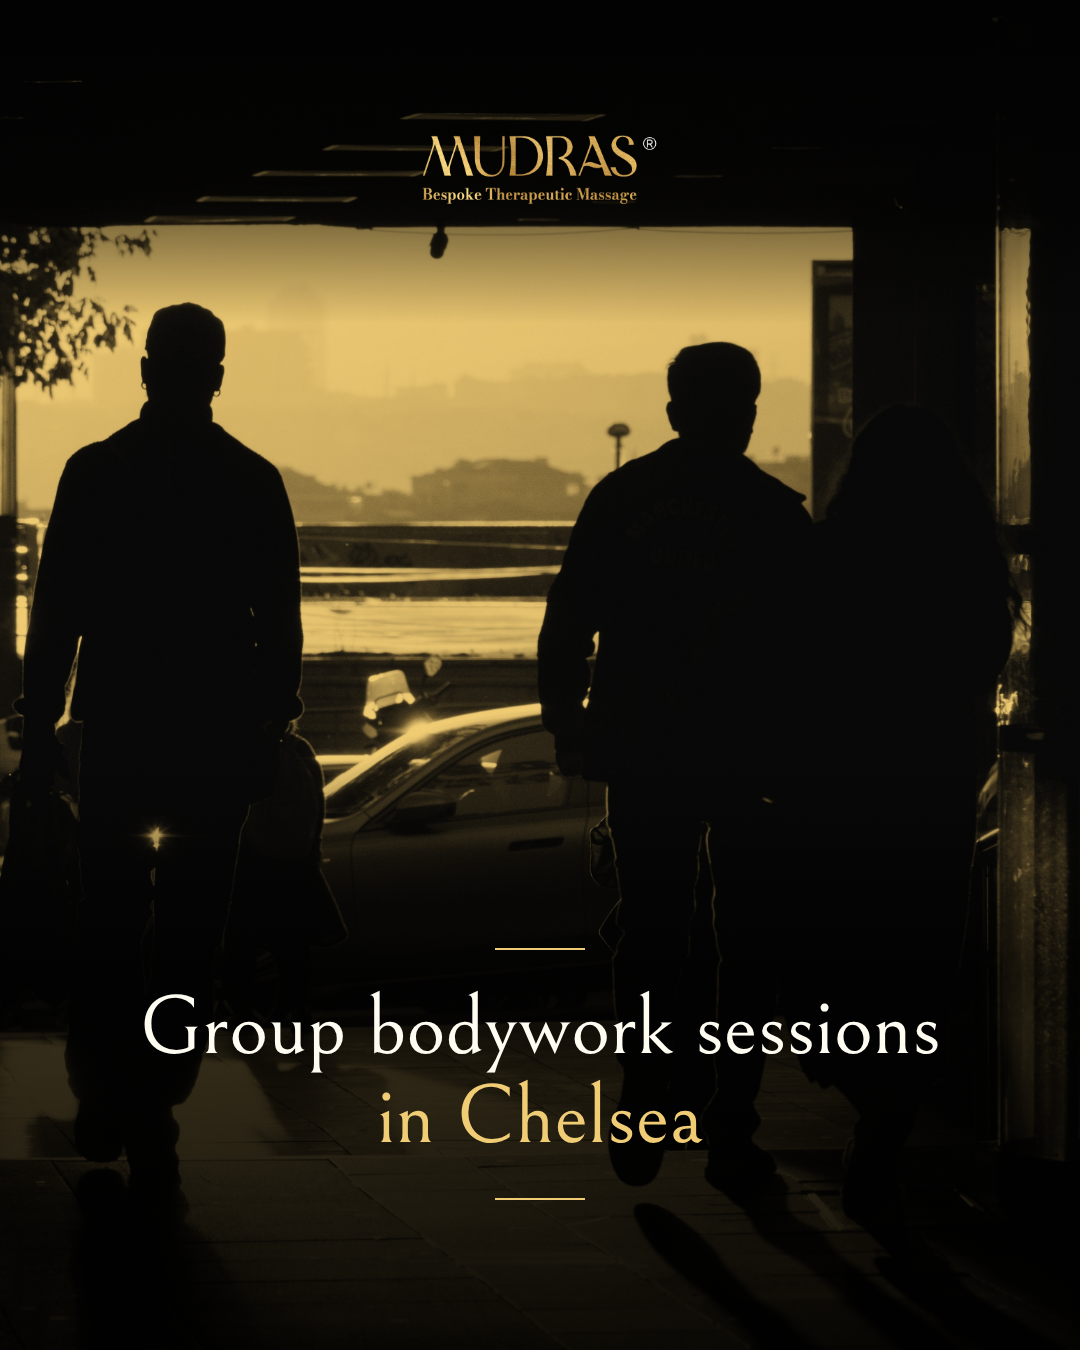
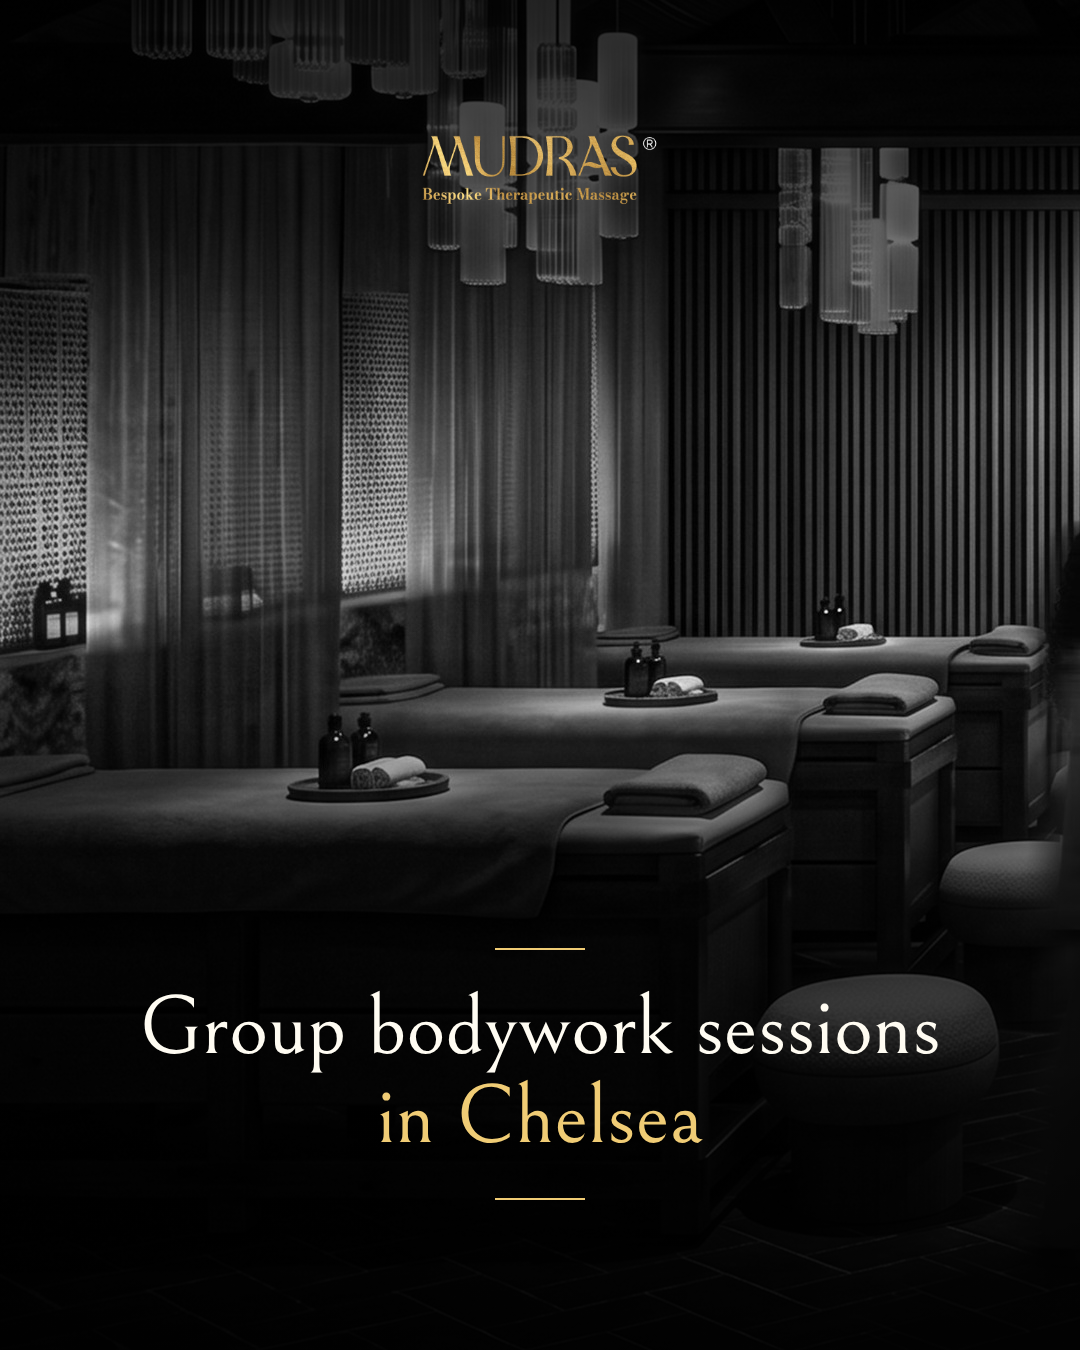
Mudras: new group bodywork image (studio with several tables, B&W) and updated notes
Claude-Session: https://claude.ai/code/session_01WnXcuRrGu4zGnnykNFmZUS

diff --git a/deliverables/mudras/source/design/v2/r2-group-bodywork.html b/deliverables/mudras/source/design/v2/r2-group-bodywork.html
@@ -1,0 +1,36 @@
+<!doctype html>
+<html><head><meta charset="utf-8">
+<link href="https://fonts.googleapis.com/css2?family=Bellefair&family=Raleway:wght@500;600&display=block" rel="stylesheet">
+<style>
+/* Mudras brand tokens, taken from mudras.com theme CSS. Black/gold/white. The photo is toned as a black-to-gold
+   duotone (brand gold #F0CC75 highlights): a studio room with several massage tables ready for a team visit (black and white). Centred logo at the top
+   over the dark ceiling, centred serif copy between two short gold rules at the bottom. */
+:root{
+  --gold:#F0CC75;        /* accent  hsl(42.44 80.39% 70%) */
+  --white:#FFFCF2;       /* white   hsl(46.15 100% 97.45%) */
+  --serif:'Bellefair', serif;     /* stand-in for orpheus-pro (Adobe Fonts) */
+}
+*{box-sizing:border-box;margin:0;padding:0}
+body{background:#888;display:flex;flex-direction:column;gap:40px;padding:40px;align-items:flex-start}
+body.notext .t{visibility:hidden}
+.ab{position:relative;overflow:hidden;background:#000;color:var(--white)}
+.p45{width:1080px;height:1350px}
+.photo{position:absolute;inset:0;background:url(../../img/grp_spa_room_bw.jpg) 50% 50%/cover no-repeat}
+.shade{position:absolute;inset:0;background:linear-gradient(180deg,rgba(0,0,0,.85) 0%,rgba(0,0,0,.6) 16%,rgba(0,0,0,.1) 30%,rgba(0,0,0,0) 50%,rgba(0,0,0,.7) 68%,rgba(0,0,0,.93) 100%)}
+.serif{font-family:var(--serif);font-weight:400;line-height:1.06}
+.logo img{width:100%;display:block}
+.rule{width:90px;height:2px;background:var(--gold);margin:0 auto}
+</style></head><body>
+
+<div class="ab p45" id="fb_group_bodywork">
+  <div class="photo"></div>
+  <div class="shade"></div>
+  <div class="logo t" style="position:absolute;left:50%;transform:translateX(-50%);top:135px;width:240px"><img src="../../site/orig_Group_1487669750.png"></div>
+  <div style="position:absolute;left:108px;right:108px;bottom:150px;text-align:center">
+    <div class="rule" style="margin-bottom:34px"></div>
+    <div class="serif t" style="font-size:84px;white-space:nowrap">Group bodywork sessions<br><span style="color:var(--gold)">in Chelsea</span></div>
+    <div class="rule" style="margin-top:36px"></div>
+  </div>
+</div>
+
+</body></html>

diff --git a/deliverables/mudras/group-bodywork-chelsea/caption-and-image-link.md b/deliverables/mudras/group-bodywork-chelsea/caption-and-image-link.md
@@ -4,13 +4,13 @@ One design works for both platforms:
 - `instagram/instagram-feed-1080x1350.png`
 - `facebook/facebook-feed-1080x1350.png`
 
-Creative idea: a small team (silhouettes, no faces) walking out together into golden evening light, like heading to the studio after work.
-
-The photo is toned as a black-to-gold duotone using the brand gold `#F0CC75`. That is a new look for the feed, but it stays inside the black, gold and white palette.
+**v2 (replaces the rejected duotone walking-silhouettes image).** The new photo shows a calm, dark studio room with several massage tables set up side by side, so "group session" reads at a glance. It is converted to black and white to match the brand photo style. There are no faces and no equipment.
 
 The layout:
-- gold logo centred at the top, over the dark ceiling
+- gold logo centred at the top
 - centred serif copy between two short gold rules at the bottom
+
+QA: 1080×1350, text inside the safe zone, one font (Bellefair), at most 3 words per line, contrast 14.2, text area 10.6%.
 
 ## Image text
 Group bodywork sessions in Chelsea
@@ -18,15 +18,15 @@ Group bodywork sessions in Chelsea
 ## Image used
 | Image | Source | Link |
 |---|---|---|
-| Three people in silhouette walking out of a covered walkway toward golden light (no faces) | Unsplash (free under the Unsplash License, commercial use allowed) | https://unsplash.com/photos/cXdExFX-CJQ |
+| Dark spa room with several massage tables under pendant lights (cropped to the tables, black and white, no people) | Unsplash (free under the Unsplash License, commercial use allowed) | https://unsplash.com/photos/4lDAmTDmlXk |
 
-Direct download: https://images.unsplash.com/photo-1790091060429-e8c1c74f72ff
+Direct download: https://images.unsplash.com/photo-1792208900103-cd3088eec006
 
 ## Caption
 Running a small business in NYC? Your team works hard, so show them you've noticed. 💛
 Bring your team to our Chelsea studio for a group visit, after work or on a Saturday. Every person gets a session shaped around how their body feels that day.
 
 📞 (212) 837-8382
-👉 Corporate Massage NYC | Onsite & Chelsea Studio | Mudras
+👉 https://www.mudras.com/corporate-massage-nyc
 
 #SmallBusinessNYC #TeamAppreciation #ChelseaNYC
